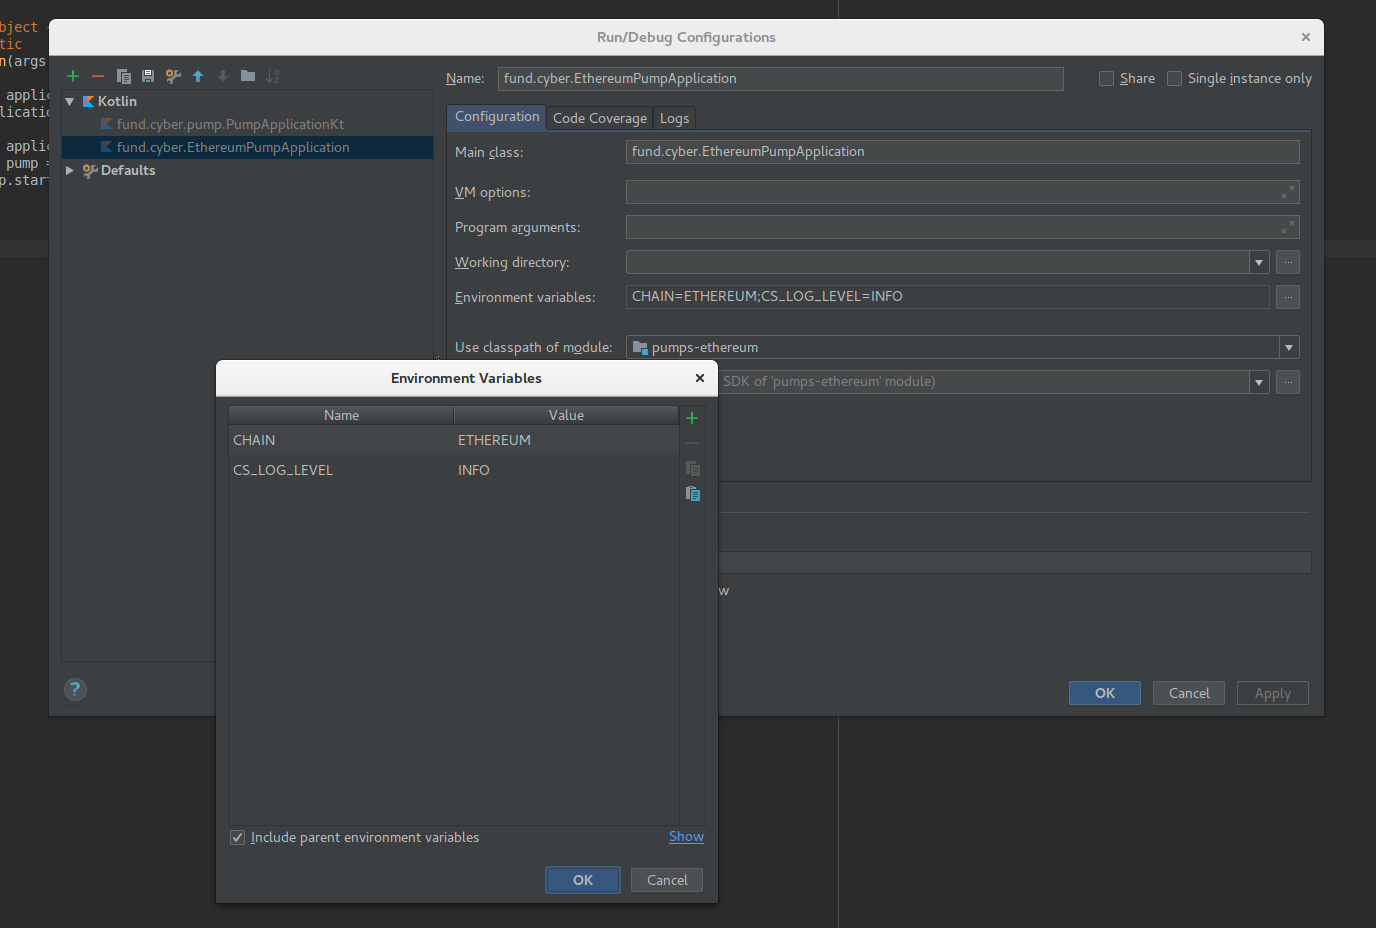
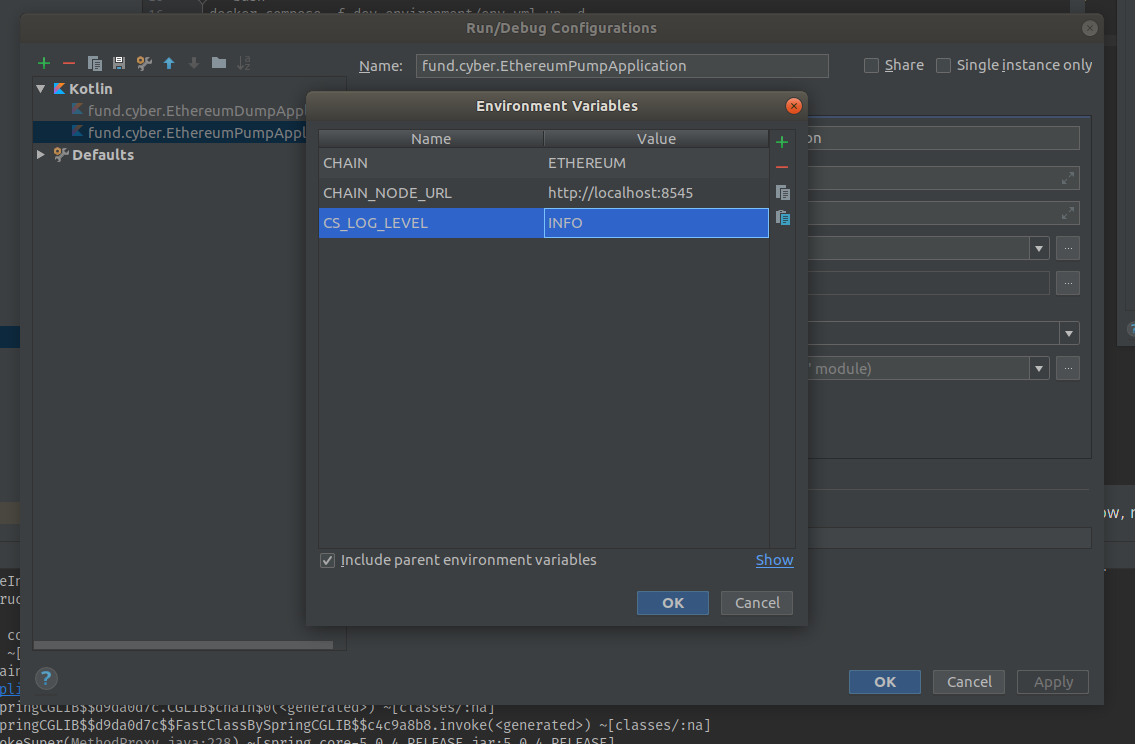
#104 Populate Cassandra With Keyspaces during startup

diff --git a/cassandra-service/src/main/kotlin/fund/cyber/cassandra/ethereum/configuration/EthereumRepositoryConfiguration.kt b/cassandra-service/src/main/kotlin/fund/cyber/cassandra/ethereum/configuration/EthereumRepositoryConfiguration.kt
@@ -2,35 +2,20 @@ package fund.cyber.cassandra.ethereum.configuration
 
 import com.datastax.driver.core.Cluster
 import fund.cyber.cassandra.common.NoChainCondition
+import fund.cyber.cassandra.common.defaultKeyspaceSpecification
 import fund.cyber.cassandra.configuration.CassandraRepositoriesConfiguration
 import fund.cyber.cassandra.configuration.keyspace
-import fund.cyber.cassandra.ethereum.repository.EthereumAddressRepository
-import fund.cyber.cassandra.ethereum.repository.EthereumBlockRepository
-import fund.cyber.cassandra.ethereum.repository.EthereumTxRepository
-import fund.cyber.cassandra.ethereum.repository.EthereumUncleRepository
-import fund.cyber.cassandra.ethereum.repository.PageableEthereumAddressMinedBlockRepository
-import fund.cyber.cassandra.ethereum.repository.PageableEthereumAddressMinedUncleRepository
-import fund.cyber.cassandra.ethereum.repository.PageableEthereumAddressTxRepository
-import fund.cyber.cassandra.ethereum.repository.PageableEthereumBlockTxRepository
+import fund.cyber.cassandra.ethereum.repository.*
 import fund.cyber.cassandra.migration.BlockchainMigrationSettings
 import fund.cyber.cassandra.migration.MigrationSettings
-import fund.cyber.search.configuration.CASSANDRA_HOSTS
-import fund.cyber.search.configuration.CASSANDRA_HOSTS_DEFAULT
-import fund.cyber.search.configuration.CASSANDRA_PORT
-import fund.cyber.search.configuration.CASSANDRA_PORT_DEFAULT
-import fund.cyber.search.configuration.CHAIN
-import fund.cyber.search.configuration.env
+import fund.cyber.search.configuration.*
 import fund.cyber.search.model.chains.Chain
 import fund.cyber.search.model.chains.EthereumFamilyChain
 import org.springframework.beans.factory.InitializingBean
 import org.springframework.beans.factory.annotation.Autowired
 import org.springframework.beans.factory.annotation.Qualifier
 import org.springframework.beans.factory.annotation.Value
-import org.springframework.context.annotation.Bean
-import org.springframework.context.annotation.Condition
-import org.springframework.context.annotation.ConditionContext
-import org.springframework.context.annotation.Conditional
-import org.springframework.context.annotation.Configuration
+import org.springframework.context.annotation.*
 import org.springframework.context.support.GenericApplicationContext
 import org.springframework.core.type.AnnotatedTypeMetadata
 import org.springframework.data.cassandra.ReactiveSession
@@ -41,6 +26,7 @@ import org.springframework.data.cassandra.core.CassandraTemplate
 import org.springframework.data.cassandra.core.ReactiveCassandraOperations
 import org.springframework.data.cassandra.core.ReactiveCassandraTemplate
 import org.springframework.data.cassandra.core.convert.MappingCassandraConverter
+import org.springframework.data.cassandra.core.cql.keyspace.CreateKeyspaceSpecification
 import org.springframework.data.cassandra.core.cql.session.DefaultBridgedReactiveSession
 import org.springframework.data.cassandra.core.cql.session.DefaultReactiveSessionFactory
 import org.springframework.data.cassandra.core.mapping.CassandraMappingContext
@@ -68,6 +54,10 @@ class EthereumRepositoryConfiguration(
 
     override fun getKeyspaceName(): String = chain.keyspace
     override fun getEntityBasePackages(): Array<String> = arrayOf("fund.cyber.cassandra.ethereum.model")
+
+    override fun getKeyspaceCreations(): List<CreateKeyspaceSpecification> {
+        return super.getKeyspaceCreations() + listOf(defaultKeyspaceSpecification(chain.lowerCaseName))
+    }
 
     @Bean
     fun migrationSettings(): MigrationSettings {

diff --git a/cassandra-service/src/main/kotlin/fund/cyber/cassandra/bitcoin/configuration/BitcoinRepositoryConfiguration.kt b/cassandra-service/src/main/kotlin/fund/cyber/cassandra/bitcoin/configuration/BitcoinRepositoryConfiguration.kt
@@ -2,34 +2,21 @@ package fund.cyber.cassandra.bitcoin.configuration
 
 import com.datastax.driver.core.Cluster
 import com.datastax.driver.extras.codecs.jdk8.InstantCodec
-import fund.cyber.cassandra.bitcoin.repository.BitcoinAddressSummaryRepository
-import fund.cyber.cassandra.bitcoin.repository.BitcoinBlockRepository
-import fund.cyber.cassandra.bitcoin.repository.BitcoinTxRepository
-import fund.cyber.cassandra.bitcoin.repository.PageableBitcoinAddressMinedBlockRepository
-import fund.cyber.cassandra.bitcoin.repository.PageableBitcoinAddressTxRepository
-import fund.cyber.cassandra.bitcoin.repository.PageableBitcoinBlockTxRepository
+import fund.cyber.cassandra.bitcoin.repository.*
 import fund.cyber.cassandra.common.NoChainCondition
+import fund.cyber.cassandra.common.defaultKeyspaceSpecification
 import fund.cyber.cassandra.configuration.CassandraRepositoriesConfiguration
 import fund.cyber.cassandra.configuration.keyspace
 import fund.cyber.cassandra.migration.BlockchainMigrationSettings
 import fund.cyber.cassandra.migration.MigrationSettings
-import fund.cyber.search.configuration.CASSANDRA_HOSTS
-import fund.cyber.search.configuration.CASSANDRA_HOSTS_DEFAULT
-import fund.cyber.search.configuration.CASSANDRA_PORT
-import fund.cyber.search.configuration.CASSANDRA_PORT_DEFAULT
-import fund.cyber.search.configuration.CHAIN
-import fund.cyber.search.configuration.env
+import fund.cyber.search.configuration.*
 import fund.cyber.search.model.chains.BitcoinFamilyChain
 import fund.cyber.search.model.chains.Chain
 import org.springframework.beans.factory.InitializingBean
 import org.springframework.beans.factory.annotation.Autowired
 import org.springframework.beans.factory.annotation.Qualifier
 import org.springframework.beans.factory.annotation.Value
-import org.springframework.context.annotation.Bean
-import org.springframework.context.annotation.Condition
-import org.springframework.context.annotation.ConditionContext
-import org.springframework.context.annotation.Conditional
-import org.springframework.context.annotation.Configuration
+import org.springframework.context.annotation.*
 import org.springframework.context.support.GenericApplicationContext
 import org.springframework.core.type.AnnotatedTypeMetadata
 import org.springframework.data.cassandra.ReactiveSession
@@ -41,6 +28,7 @@ import org.springframework.data.cassandra.core.CassandraTemplate
 import org.springframework.data.cassandra.core.ReactiveCassandraOperations
 import org.springframework.data.cassandra.core.ReactiveCassandraTemplate
 import org.springframework.data.cassandra.core.convert.MappingCassandraConverter
+import org.springframework.data.cassandra.core.cql.keyspace.CreateKeyspaceSpecification
 import org.springframework.data.cassandra.core.cql.session.DefaultBridgedReactiveSession
 import org.springframework.data.cassandra.core.cql.session.DefaultReactiveSessionFactory
 import org.springframework.data.cassandra.core.mapping.CassandraMappingContext
@@ -68,6 +56,10 @@ class BitcoinRepositoryConfiguration(
 
     override fun getKeyspaceName(): String = chain.keyspace
     override fun getEntityBasePackages(): Array<String> = arrayOf("fund.cyber.cassandra.bitcoin.model")
+
+    override fun getKeyspaceCreations(): List<CreateKeyspaceSpecification> {
+        return super.getKeyspaceCreations() + listOf(defaultKeyspaceSpecification(chain.lowerCaseName))
+    }
 
     @Bean
     fun migrationSettings(): MigrationSettings {

diff --git a/cassandra-service/src/main/kotlin/fund/cyber/cassandra/configuration/CassandraConfiguration.kt b/cassandra-service/src/main/kotlin/fund/cyber/cassandra/configuration/CassandraConfiguration.kt
@@ -2,6 +2,7 @@ package fund.cyber.cassandra.configuration
 
 import com.datastax.driver.core.HostDistance
 import com.datastax.driver.core.PoolingOptions
+import fund.cyber.cassandra.common.defaultKeyspaceSpecification
 import fund.cyber.cassandra.migration.DefaultMigrationsLoader
 import fund.cyber.search.model.chains.Chain
 import org.apache.http.impl.client.HttpClients
@@ -13,6 +14,7 @@ import org.springframework.context.annotation.Primary
 import org.springframework.context.support.GenericApplicationContext
 import org.springframework.data.cassandra.ReactiveSession
 import org.springframework.data.cassandra.config.AbstractReactiveCassandraConfiguration
+import org.springframework.data.cassandra.core.cql.keyspace.CreateKeyspaceSpecification
 
 
 const val MAX_CONCURRENT_REQUESTS = 8182
@@ -37,6 +39,10 @@ abstract class CassandraRepositoriesConfiguration(
     @Primary
     override fun reactiveSession(): ReactiveSession {
         return super.reactiveSession()
+    }
+
+    override fun getKeyspaceCreations(): List<CreateKeyspaceSpecification> {
+        return listOf(defaultKeyspaceSpecification("cyber_system"))
     }
 }
 

diff --git a/cassandra-service/src/main/kotlin/fund/cyber/cassandra/migration/configuration/MigrationRepositoryConfiguration.kt b/cassandra-service/src/main/kotlin/fund/cyber/cassandra/migration/configuration/MigrationRepositoryConfiguration.kt
@@ -2,9 +2,9 @@ package fund.cyber.cassandra.migration.configuration
 
 import fund.cyber.cassandra.configuration.CassandraRepositoriesConfiguration
 import fund.cyber.search.configuration.CASSANDRA_HOSTS
+import fund.cyber.search.configuration.CASSANDRA_HOSTS_DEFAULT
 import fund.cyber.search.configuration.CASSANDRA_PORT
 import fund.cyber.search.configuration.CASSANDRA_PORT_DEFAULT
-import fund.cyber.search.configuration.CASSANDRA_HOSTS_DEFAULT
 import org.springframework.beans.factory.annotation.Qualifier
 import org.springframework.beans.factory.annotation.Value
 import org.springframework.context.annotation.Bean

diff --git a/cassandra-service/src/main/kotlin/fund/cyber/cassandra/common/Keyspaces.kt b/cassandra-service/src/main/kotlin/fund/cyber/cassandra/common/Keyspaces.kt
@@ -1,0 +1,14 @@
+package fund.cyber.cassandra.common
+
+import org.springframework.data.cassandra.core.cql.keyspace.CreateKeyspaceSpecification
+import org.springframework.data.cassandra.core.cql.keyspace.DataCenterReplication
+
+
+fun defaultKeyspaceSpecification(keyspaces: String): CreateKeyspaceSpecification {
+    return CreateKeyspaceSpecification.createKeyspace(keyspaces)
+            .withNetworkReplication(
+                    DataCenterReplication.of("WITHOUT_REPLICATION", 1),
+                    DataCenterReplication.of("RELIABLE", 3)
+            )
+            .ifNotExists()
+}

diff --git a/common/src/main/kotlin/fund/cyber/search/configuration/Env.kt b/common/src/main/kotlin/fund/cyber/search/configuration/Env.kt
@@ -1,5 +1,7 @@
 package fund.cyber.search.configuration
 
+const val DEV_ENVIRONMENT = "DEV_ENVIRONMENT"
+
 const val CHAIN = "CHAIN"
 const val CHAIN_NODE_URL = "CHAIN_NODE_URL"
 const val BITCOIN_CHAIN_NODE_DEFAULT_URL = "http://cyber:cyber@127.0.0.1:8332"

diff --git a/dev-environment/README.md b/dev-environment/README.md
@@ -1,7 +1,7 @@
 # Development environment
 
 ## Prestart
-* Instal Java 8 JDK
+* Install Java 10 JDK
 * Install Docker and Docker Compose
 * Install Intellij Idea
 
@@ -15,40 +15,6 @@ For linux family:
 ```bash
 docker-compose -f dev-environment/env.yml up -d
 ```
-### Bootstrap Elassandra with keyspaces(required)
-```bash
-docker cp dev-environment/elassandra-bootstrap.cql  elassandra-search:/elassandra-bootstrap.cql
-docker exec -it elassandra-search bash
-cqlsh -f elassandra-bootstrap.cql
-```
-Then copy paste all content from elassandra-bootstrap.cql to interactive console and press enter. Write twice exit to 
- exit from container shell.
-
-### Stop kafka and delete kafka data(cheat sheet)
-```bash
-docker stop fast-data-dev-search
-docker rm fast-data-dev-search
-```
-### Stop elassandra and delete elassandra data(cheat sheet)
-```bash
-docker stop elassandra-search
-docker rm elassandra-search
-```
-
-## Start required chain nodes(Examples)
-### Run parity node(cheat sheet)
-```bash
-sudo  docker run -d -p 8545:8545 --name parity_eth \
--v ${REPLACE_IT_BY_HOST_FOLDER}:/cyberdata parity/parity:stable \
---db-path /cyberdata --jsonrpc-hosts all --jsonrpc-interface all --jsonrpc-threads 4
-```
-
-### Access chains from remote machine(mars)(cheat sheet)
-```bash
-ssh -L 18332:localhost:18332 -L 8332:localhost:8332 \
--L 18545:localhost:18545 -L 8545:localhost:8545 \
-mars@staging.cyber.fund  -p 33322
-```
 
 ## Import project to Intellij Idea
 Open Project in idea by selecting: Import Project -> selecting build.gradle file from the repository root
@@ -56,17 +22,16 @@ Open Project in idea by selecting: Import Project -> selecting build.gradle file
 ![Import Settings](images/gradle-settings.png)
 Wait for dependency downloading and indexation
 
-## Run Pump, Dump, or Contract Summary from intellij Idea
+## Run Ethereum Pump from intellij Idea
 Go to EthereumPumpApplication.kt and press green triangle on left to the code (on example line 23):
 ![Start Pump](images/start-pump.png)
 
-Pump will fail due to lack of environment property CHAIN, let's define it: Select "Edit Configuration"
+Pump will fail due to lack of **CHAIN** and **CHAIN_NODE_URL** environment properties, let's define it: Select "Edit Configuration"
 
 ![Select Edit Run Configuration](images/select-edit-configuration.png)
 
-Add next properties:
+Add properties:
 
 ![Add variables](images/add-environment-variables.png)
 
-Now, run pump one more time, it should start. If, you use parity endpoint different rather that localhost:8545, than add
- one more env variable called **CHAIN_NODE_URL**. Same for Dumps, Contract Summaries and etc.
+Now, run pump one more time, it should start.

diff --git a/dev-environment/CheatSheet.md b/dev-environment/CheatSheet.md
@@ -1,0 +1,26 @@
+## Kafka
+### Stop kafka and delete kafka data(cheat sheet)
+```bash
+docker stop fast-data-dev-search
+docker rm fast-data-dev-search
+```
+
+
+## Elassandra
+### Stop elassandra and delete elassandra data(cheat sheet)
+```bash
+docker stop elassandra-search
+docker rm elassandra-search
+```
+### Get indices info
+```bash
+curl -XGET 'localhost:9200/_cat/indices?v&pretty'
+```
+
+## Chains
+### Run parity node(cheat sheet)
+```bash
+sudo  docker run -d -p 8545:8545 --name parity_eth \
+-v ${REPLACE_IT_BY_HOST_FOLDER}:/cyberdata parity/parity:stable \
+--db-path /cyberdata --jsonrpc-hosts all --jsonrpc-interface all --jsonrpc-threads 4
+```
